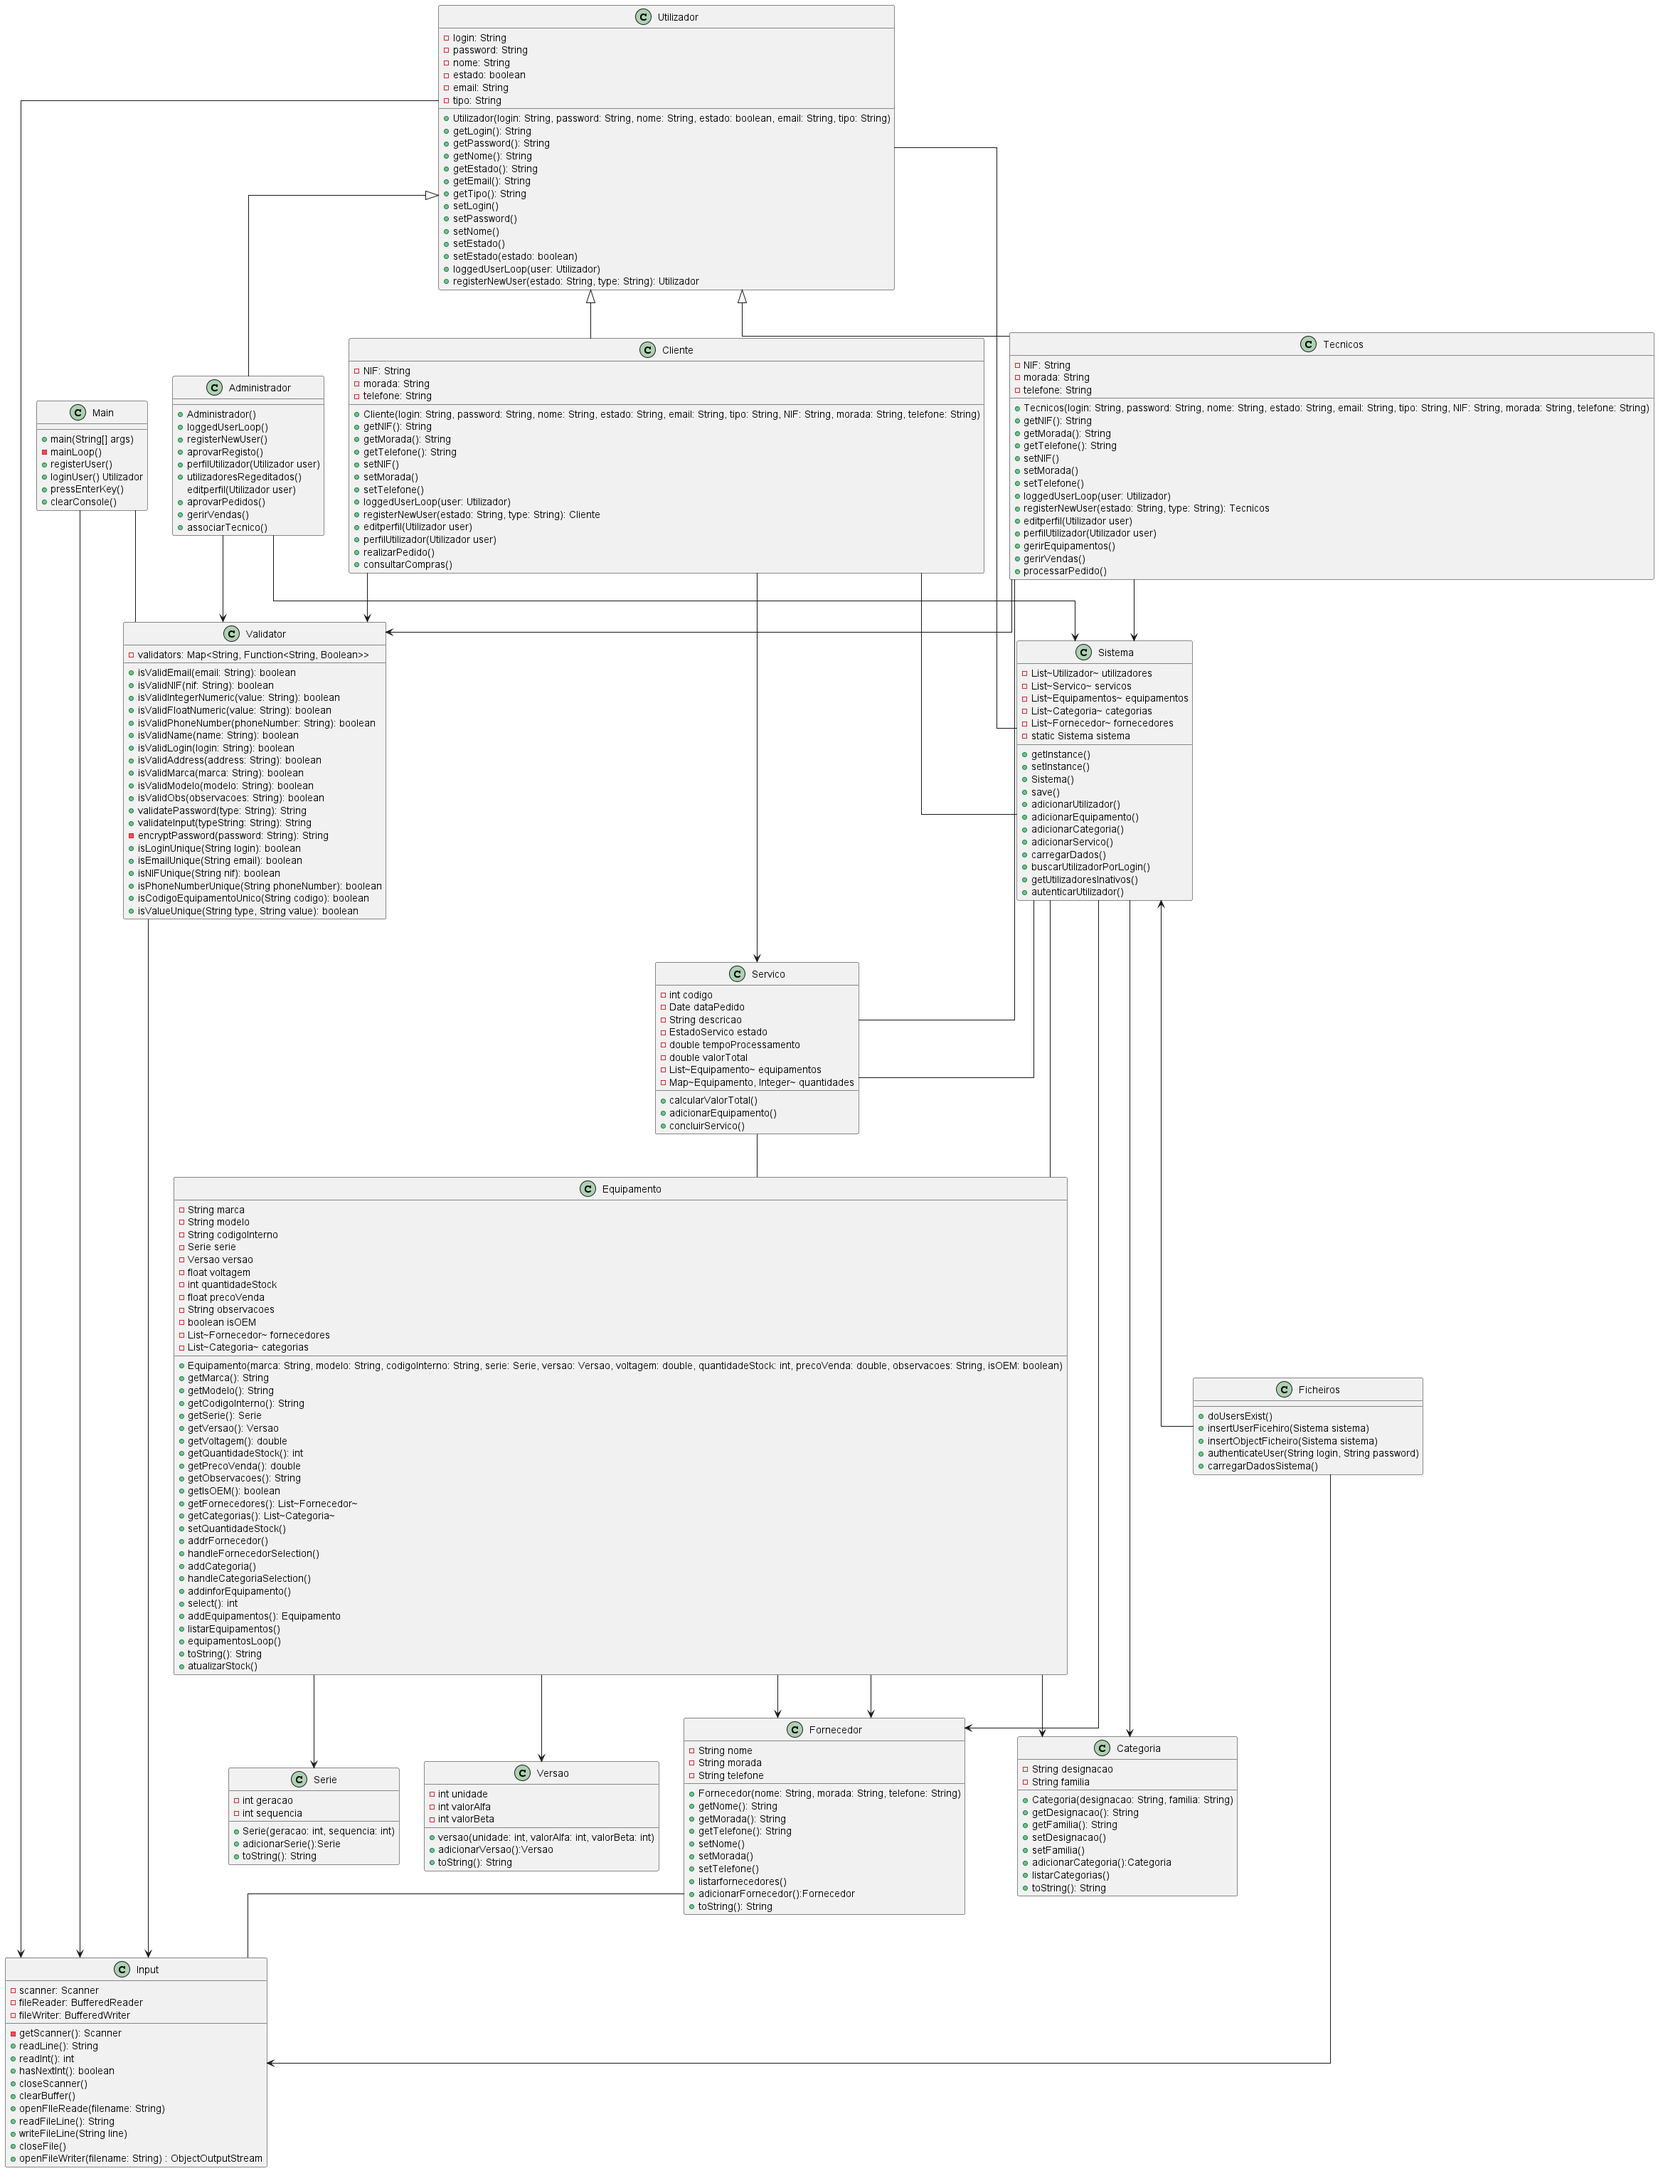
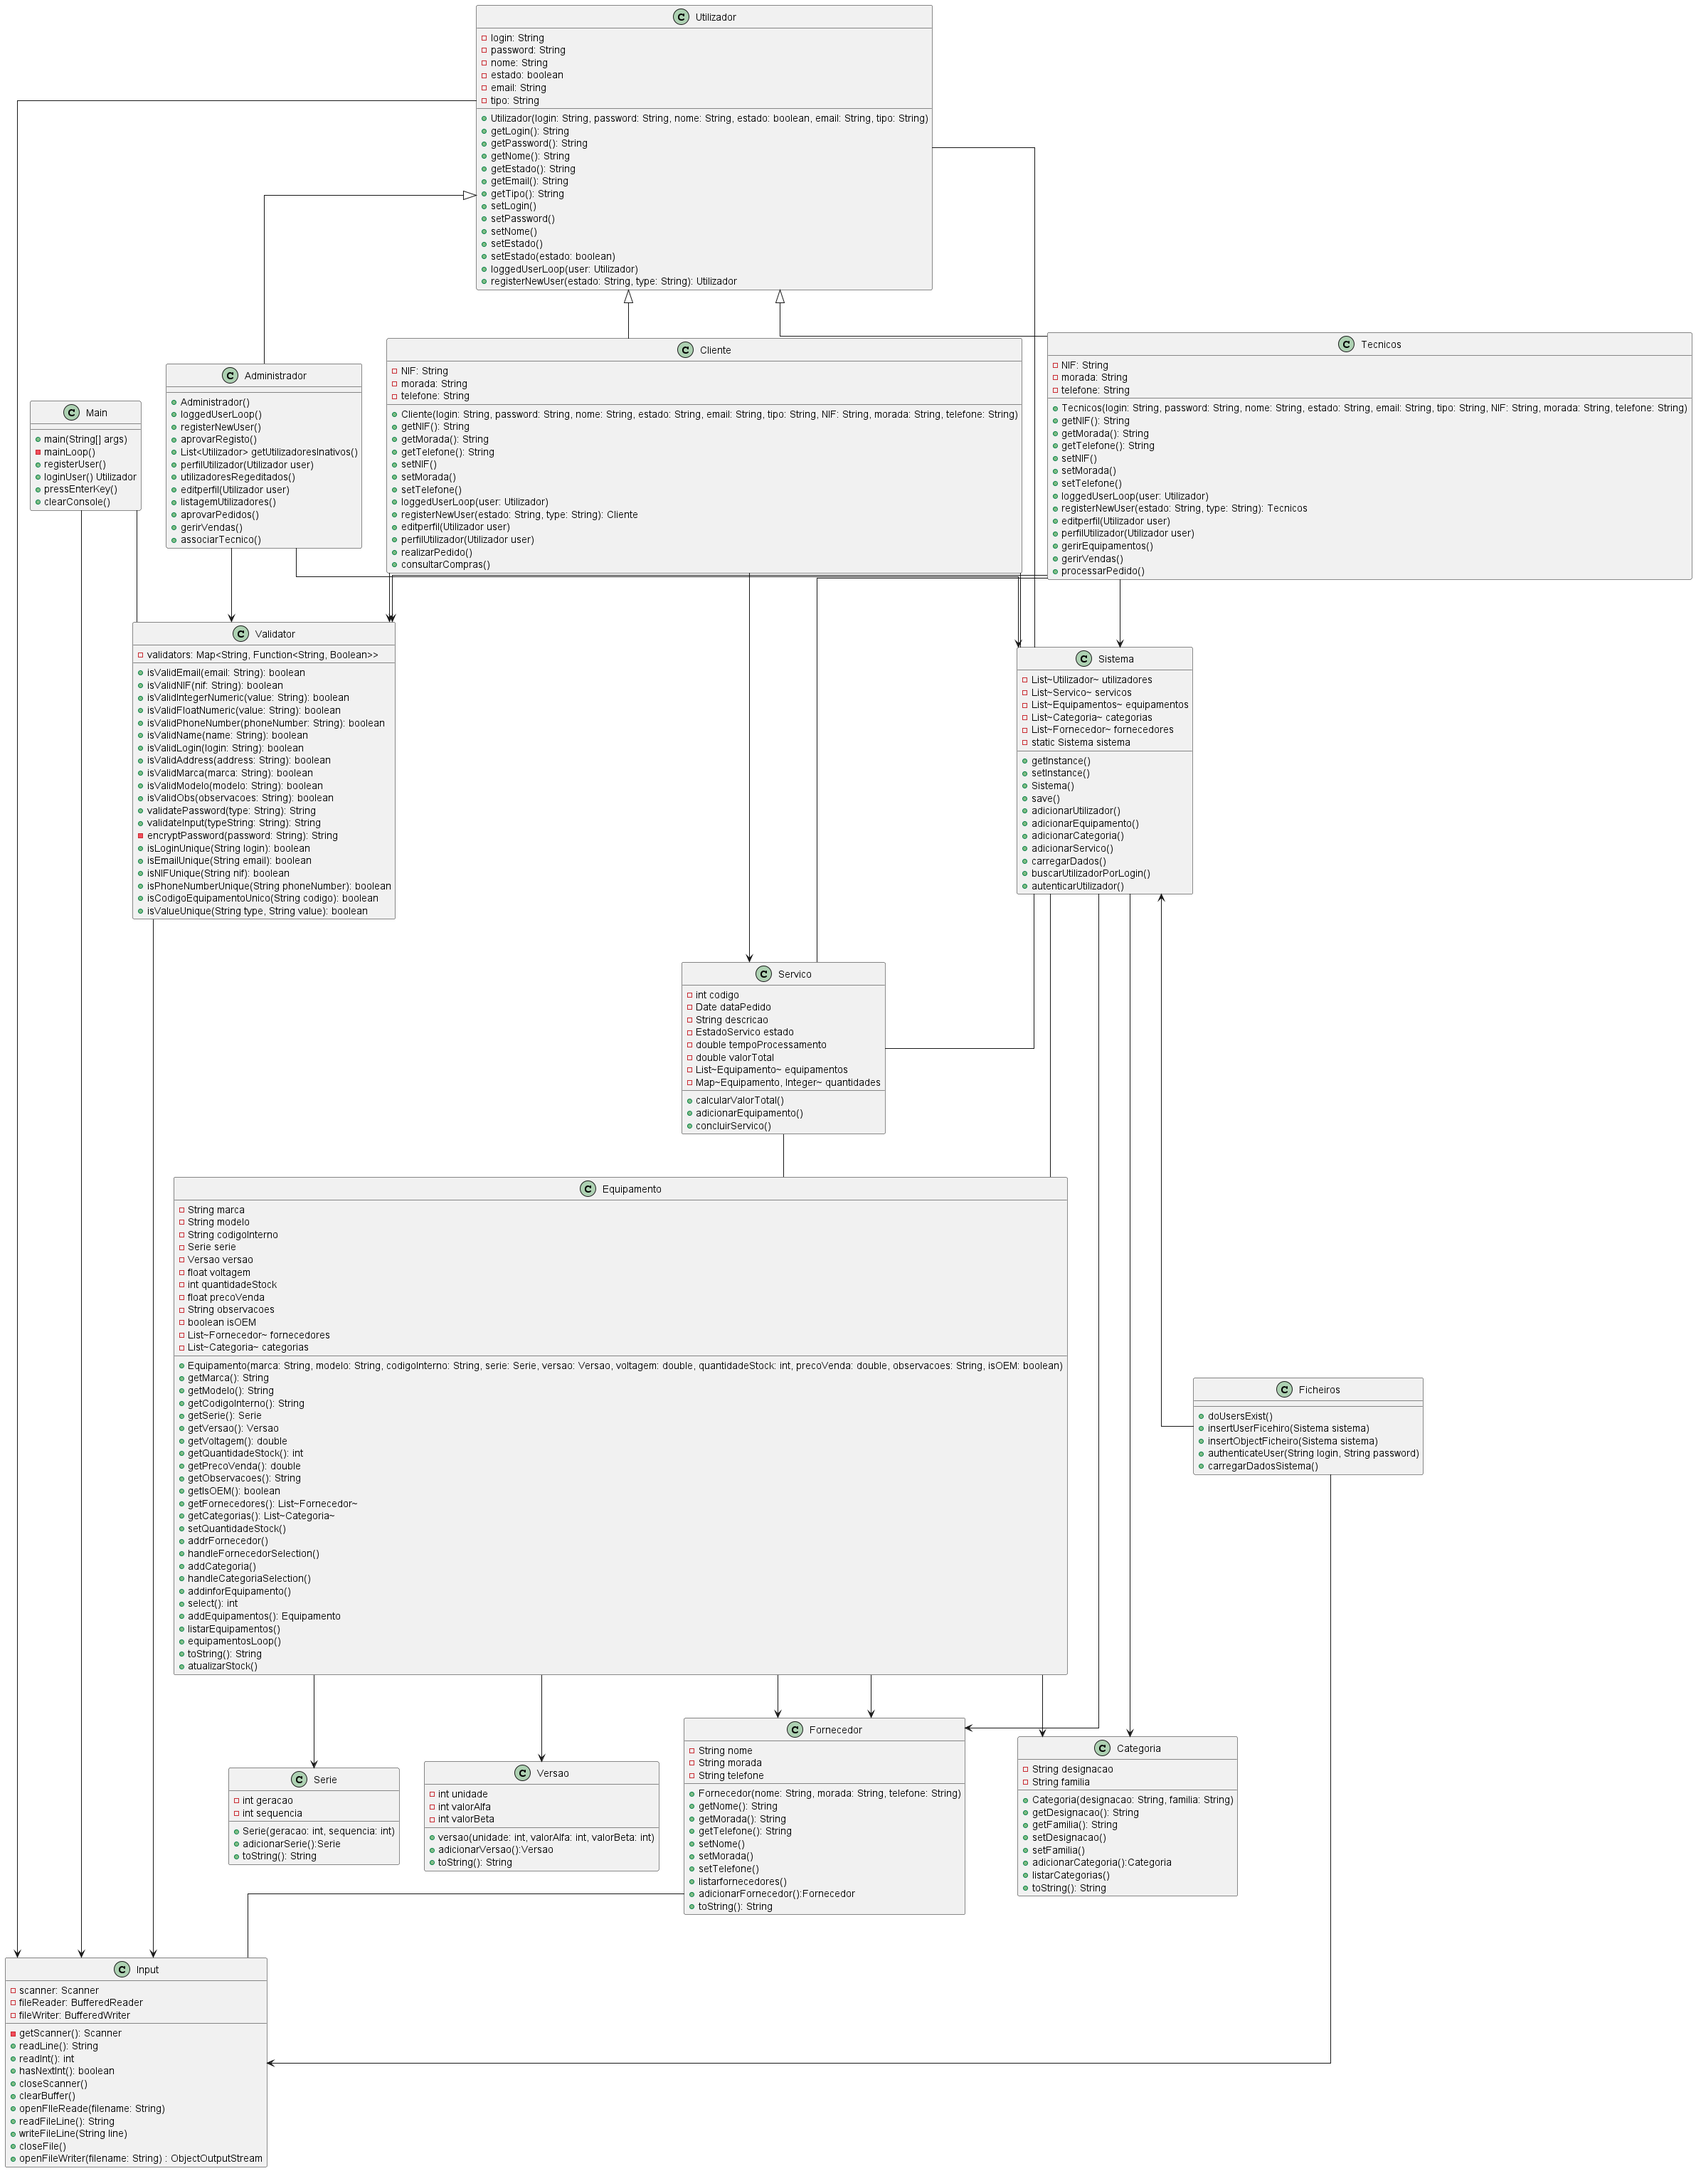
marcar requisitos como concluídos no README.md; adicionar métodos para listar utilizadores e obter utilizadores inativos na classe Administrador.

diff --git a/src/Administrador.java b/src/Administrador.java
@@ -1,5 +1,6 @@
 package src;
 
+import java.util.Comparator;
 import java.util.List;
 
 public class Administrador extends Utilizador {
@@ -18,12 +19,23 @@ public class Administrador extends Utilizador {
         return new Administrador(login, password, name, estado, email, type);
     }
 
+    private static List<Utilizador> getUtilizadoresInativos() {
+        List<Utilizador> inativos = Sistema.getInstance().getUtilizadores().stream().filter(u -> !u.getEstado()).toList();
+        if (inativos.isEmpty()) {
+            return null;
+        }
+        else {
+            return inativos;
+        }
+    }
+
     private static void perfilUtilizador(Utilizador user) {
         System.out.println("*******************");
         System.out.println("Perfil           ");
         System.out.println("Login: " + user.getLogin());
         System.out.println("Nome: " + user.getNome());
         System.out.println("Email: " + user.getEmail());
+        System.out.println("Tipo: " + user.getTipo());
         System.out.println("******************* \n");
     }
 
@@ -43,7 +55,7 @@ public class Administrador extends Utilizador {
     }
 
     private static void aprovarRegisto() {
-        List<Utilizador> inativos = Sistema.getInstance().getUtilizadoresInativos();
+        List<Utilizador> inativos = getUtilizadoresInativos();
         utilizadoresRegeditados(inativos);
         boolean running = true;
         do {
@@ -111,16 +123,74 @@ public class Administrador extends Utilizador {
         }
     }
 
+    private static void listagemUtilizadores(){
+        boolean running = true;
+        while (running) {
+            Main.clearConsole();
+            System.out.println("|-----------------------------------|");
+            System.out.println("|Listar Utilizadores                |");
+            System.out.println("|1. ordem alfabética do nome        |");
+            System.out.println("|2. listar todos os utilizadores    |");
+            System.out.println("|3. listar utilizadores por tipo.   |");
+            System.out.println("|5. Sair                            |");
+            System.out.println("|-----------------------------------|");
+            System.out.print("Option: ");
+            String option = Input.readLine();
+            switch (option) {
+                case "1":
+                    List<Utilizador> oredemAlfabetica = Sistema.getInstance().getUtilizadores().stream().sorted(Comparator.comparing(Utilizador::getNome)).toList();
+                    Main.clearConsole();
+                    System.out.println("Utilizadores por ordem alfabética:");
+                    for (int i = 0; i < oredemAlfabetica.size(); i++) {
+                        perfilUtilizador(oredemAlfabetica.get(i));
+                    }
+                    Main.pressEnterKey();
+                    break;
+                case "2":
+                    List<Utilizador> todosUtilizadores = Sistema.getInstance().getUtilizadores();
+                    Main.clearConsole();
+                    System.out.println("Todos os utilizadores:");
+                    for (int i = 0; i < todosUtilizadores.size(); i++) {
+                        perfilUtilizador(todosUtilizadores.get(i));
+                    }
+                    Main.pressEnterKey();
+                    break;
+                case "3":
+                    System.out.println("Tipo de utilizador a listar: ");
+                    String tipo = Input.readLine();
+                    List<Utilizador> utilizadoresPorTipo = Sistema.getInstance().getUtilizadores().stream().filter(u -> u.getTipo().equalsIgnoreCase(tipo)).toList();
+                    Main.clearConsole();
+                    System.out.println("Utilizadores do tipo " + tipo + ":");
+                    for (int i = 0; i < utilizadoresPorTipo.size(); i++) {
+                        perfilUtilizador(utilizadoresPorTipo.get(i));
+                    }
+                    Main.pressEnterKey();
+                    break;
+                case "5":
+                    System.out.println("A voltar ao menu principal.");
+                    Main.pressEnterKey();
+                    running = false;
+                    break;
+                default:
+                    System.out.println("Invalid option. Please try again.");
+                    Main.pressEnterKey();
+                    break;
+            }
+        }
+    }
+
+
     public static void loggedUserLoop(Utilizador user) {
         boolean running = true;
         while (running) {
             Main.clearConsole();
             System.out.println("|-------------------------------------|");
-            System.out.println("|Tens "+ (Sistema.getInstance().getUtilizadoresInativos() != null ? Sistema.getInstance().getUtilizadoresInativos().size() : 0) + " pedidos de registo por aprovar|");
+            System.out.println("|Tens "+ (getUtilizadoresInativos() != null ? getUtilizadoresInativos().size() : 0) + " pedidos de registo por aprovar|");
             System.out.println("|-------------------------------------|");
             System.out.println("|1. Editar perfil                     |");
             System.out.println("|2. Aprovar Registo                   |");
-            System.out.println("|4. Sair                              |");
+            System.out.println("|4. Listagem de utilizadores          |");
+            System.out.println("|5. Sair                              |");
             System.out.println("|-------------------------------------|");
             System.out.print("Option: ");
             String option = Input.readLine();
@@ -134,6 +204,9 @@ public class Administrador extends Utilizador {
                 case "3":
                     break;
                 case "4":
+                    listagemUtilizadores();
+                    break;
+                case "5":
                     Main.clearConsole();
                     System.out.println("Adeus " + user.getNome());
                     Main.pressEnterKey();

diff --git a/src/Sistema.java b/src/Sistema.java
@@ -102,16 +102,6 @@ public class Sistema implements Serializable {
             .orElse(null); // Retorna null se não encontrar
     }
 
-    public List<Utilizador> getUtilizadoresInativos() {
-        List<Utilizador> inativos = utilizadores.stream().filter(u -> !u.getEstado()).toList();
-        if (inativos.isEmpty()) {
-            return null;
-        }
-        else {
-            return inativos;
-        }
-    }
-
     public Utilizador autenticarUtilizador(String login, String password) {
         boolean authenticated = Ficheiros.authenticateUser(login, password);
         if (authenticated) {

diff --git a/README.md b/README.md
@@ -56,10 +56,10 @@ Equipment Manufacturer).
 - [ ] [R33] Sempre que um equipamento é vendido,a quantidade em stock deve ser actualizada.
 
 ## Listagem de Pesquisas
-- [ ] [R36] Deve ser possível ordenar utilizadores por ordem alfabética do nome.
+- [x] [R36] Deve ser possível ordenar utilizadores por ordem alfabética do nome.
 - [ ] [R37] Deve ser possível ordenar equipamentos por designação.
-- [ ] [R39] Deve ser possível listar todos os utilizadores.
-- [ ] [R40] Deve ser possível listar utilizadores por tipo.
+- [x] [R39] Deve ser possível listar todos os utilizadores.
+- [x] [R40] Deve ser possível listar utilizadores por tipo.
 - [ ] [R41] Deve ser possível listar todos os serviços.
 - [ ] [R42] Deve ser possível listar todos os serviços associados a um cliente.
 - [ ] [R43] Deve ser possível listar todos os serviços por estado.
